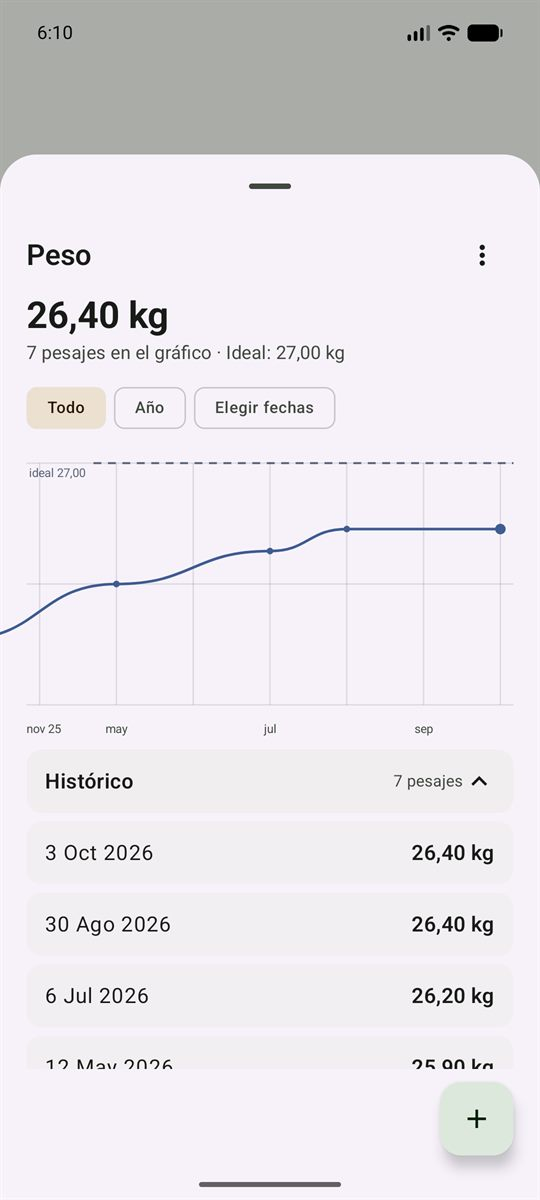
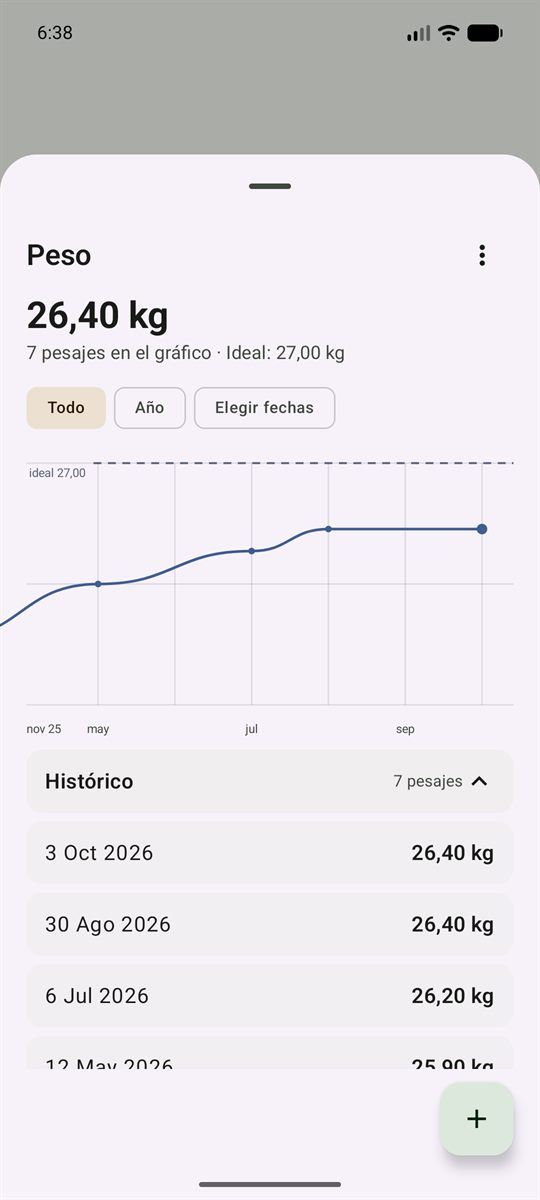
Graficos: tope a ambos lados para que la linea no se salga del borde, ni en la tarjeta de la ficha ni en la hoja de peso (el arrastre se recorta dentro de los topes)

diff --git a/shared/src/commonMain/kotlin/com/example/virtualpetkmp/ui/FichaMascotaScreen.kt b/shared/src/commonMain/kotlin/com/example/virtualpetkmp/ui/FichaMascotaScreen.kt
@@ -1016,7 +1016,14 @@ private fun SparklinePeso(
 
     val textMeasurer = androidx.compose.ui.text.rememberTextMeasurer()
     val estiloEtiqueta = androidx.compose.ui.text.TextStyle(fontSize = 9.sp, color = colorTexto)
-    val margenDerechoPx = with(androidx.compose.ui.platform.LocalDensity.current) { 36.dp.toPx() }
+    val densidad = androidx.compose.ui.platform.LocalDensity.current
+    // Tope a cada lado del gráfico: el primero y el último punto quedan con aire respecto a
+    // su borde, así la línea no arranca pegada a la esquina de la tarjeta.
+    val topeIzquierdoPx = with(densidad) { 8.dp.toPx() }
+    // Banda reservada a la derecha para rotular el peso máximo y el mínimo, con un hueco de
+    // separación respecto al último punto para que el número no se monte encima.
+    val bandaDerechaPx = with(densidad) { 32.dp.toPx() }
+    val separacionEtiquetaPx = with(densidad) { 6.dp.toPx() }
 
     androidx.compose.foundation.Canvas(modifier = modifier) {
         if (puntos.size < 2) return@Canvas
@@ -1025,23 +1032,27 @@ private fun SparklinePeso(
         val maxPeso = puntos.maxOf { it.peso }
         val rango = (maxPeso - minPeso).toFloat()
         val padV = 4.dp.toPx()
-        val anchoGrafico = (size.width - margenDerechoPx).coerceAtLeast(1f)
+        // El eje X va del tope izquierdo al arranque de la banda de etiquetas: el primer
+        // punto queda con aire a su izquierda y el último con la banda a su derecha.
+        val inicioGrafico = topeIzquierdoPx.coerceAtMost(size.width / 4f)
+        val anchoGrafico = (size.width - bandaDerechaPx - inicioGrafico).coerceAtLeast(1f)
         val altoUtil = (size.height - padV * 2).coerceAtLeast(1f)
         val grosorLinea = 1.dp.toPx()
 
-        // Tres referencias horizontales muy sutiles, para dar sensación de escala.
+        // Tres referencias horizontales muy sutiles, para dar sensación de escala. Ocupan
+        // todo el ancho para que se lean como la escala del gráfico.
         listOf(0f, 0.5f, 1f).forEach { fraccionY ->
             val y = padV + altoUtil * fraccionY
             drawLine(
                 color = colorReferencia,
                 start = Offset(0f, y),
-                end = Offset(anchoGrafico, y),
+                end = Offset(size.width, y),
                 strokeWidth = grosorLinea
             )
         }
 
         fun x(indice: Int): Float =
-            (indice.toFloat() / (puntos.size - 1)) * anchoGrafico
+            inicioGrafico + (indice.toFloat() / (puntos.size - 1)) * anchoGrafico
 
         fun y(peso: Double): Float {
             val normalizado = if (rango <= 0.0001f) 0.5f else ((peso - minPeso) / rango).toFloat()
@@ -1072,11 +1083,13 @@ private fun SparklinePeso(
         }
         drawPath(path = path, color = colorLinea, style = Stroke(width = 2.dp.toPx()))
 
-        // Pesos máximo y mínimo a la derecha, a la altura de su propio punto.
+        // Pesos máximo y mínimo en la banda de la derecha, a la altura de su propio punto
+        // pero sin pisarlo: van a partir del final del eje más un huequito.
         val etiquetaMax = formatearPesoDosDecimales(maxPeso)
         val etiquetaMin = formatearPesoDosDecimales(minPeso)
         val medidaMax = textMeasurer.measure(etiquetaMax, style = estiloEtiqueta)
         val medidaMin = textMeasurer.measure(etiquetaMin, style = estiloEtiqueta)
+        val xEtiquetas = inicioGrafico + anchoGrafico + separacionEtiquetaPx
         val yMaxEtiqueta = (coordenadas[indiceMax].y - medidaMax.size.height / 2f)
             .coerceIn(0f, (size.height - medidaMax.size.height).coerceAtLeast(0f))
         val yMinEtiqueta = (coordenadas[indiceMin].y - medidaMin.size.height / 2f)
@@ -1084,13 +1097,13 @@ private fun SparklinePeso(
         drawText(
             textMeasurer = textMeasurer,
             text = etiquetaMax,
-            topLeft = Offset(anchoGrafico + 4.dp.toPx(), yMaxEtiqueta),
+            topLeft = Offset(xEtiquetas, yMaxEtiqueta),
             style = estiloEtiqueta
         )
         drawText(
             textMeasurer = textMeasurer,
             text = etiquetaMin,
-            topLeft = Offset(anchoGrafico + 4.dp.toPx(), yMinEtiqueta),
+            topLeft = Offset(xEtiquetas, yMinEtiqueta),
             style = estiloEtiqueta
         )
 

diff --git a/shared/src/commonMain/kotlin/com/example/virtualpetkmp/ui/HojaPesoDetallada.kt b/shared/src/commonMain/kotlin/com/example/virtualpetkmp/ui/HojaPesoDetallada.kt
@@ -571,7 +571,14 @@ private fun GraficoLineaMeses(
         val pasoDp = pasoTeoricoDp.coerceIn(pasoMinimoDp, pasoMaximoDp)
         val pasoPx = with(densidad) { pasoDp.toPx() }
         val anchoContenidoPx = pasoPx * (meses.size - 1).coerceAtLeast(1)
-        val maxDesplazamiento = (anchoContenidoPx - anchoPx).coerceAtLeast(0f)
+
+        // Tope a cada lado, igual que en el gráfico de la ficha: el recorrido del arrastre se
+        // recorta para que el primer y el último punto nunca lleguen al borde de la hoja, ni
+        // siquiera al llevar el gráfico de punta a punta.
+        val topeLadosPx = with(densidad) { 14.dp.toPx() }
+        val maxDesplazamiento =
+            (anchoContenidoPx - anchoPx + topeLadosPx).coerceAtLeast(0f)
+        val desplazamientoMinimo = (topeLadosPx * 2 - anchoPx).coerceAtMost(0f)
 
         // Al abrir, se enseña el final del histórico, que es el peso más reciente.
         LaunchedEffect(anchoPx, maxDesplazamiento) {
@@ -580,16 +587,16 @@ private fun GraficoLineaMeses(
 
         // Las etiquetas se adelgazan si hay muchísimos meses, para que no se solapen.
         val saltoEtiquetas = (meses.size / 12 + 1).coerceAtLeast(1)
-        val desplazamientoPx = desplazamiento.coerceIn(0f, maxDesplazamiento)
+        val desplazamientoPx = desplazamiento.coerceIn(desplazamientoMinimo, maxDesplazamiento)
 
         Canvas(
             modifier = Modifier
                 .fillMaxSize()
-                .pointerInput(anchoPx, maxDesplazamiento) {
+                .pointerInput(anchoPx, maxDesplazamiento, desplazamientoMinimo) {
                     detectDragGestures { cambio, arrastre ->
                         cambio.consume()
-                        desplazamiento =
-                            (desplazamiento - arrastre.x).coerceIn(0f, maxDesplazamiento)
+                        desplazamiento = (desplazamiento - arrastre.x)
+                            .coerceIn(desplazamientoMinimo, maxDesplazamiento)
                     }
                 }
         ) {
